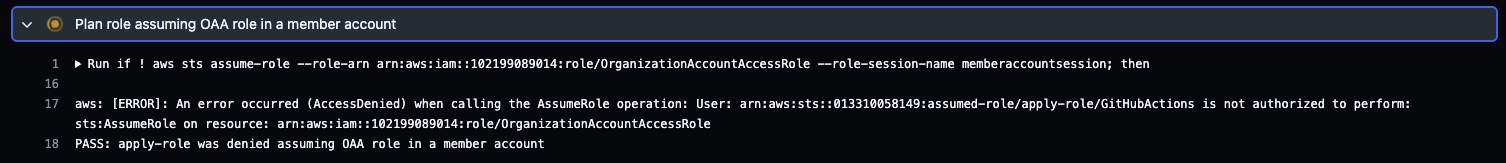
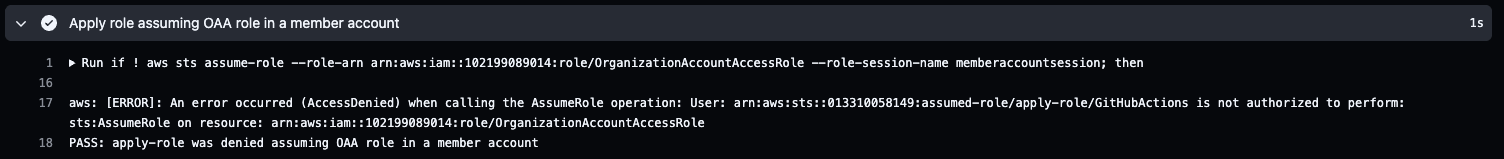
docs: phase-2.0 docs started

diff --git a/docs/adr/0002-organization-design.md b/docs/adr/0002-organization-design.md
@@ -1,0 +1,78 @@
+# ADR 0002: Organizational Unit (OU) and Account Architecture Design
+
+Date: 2026-11-08
+
+Status: Accepted
+
+## Context
+To host our workloads securely and at scale, we require a robust multi-account strategy using AWS Organizations. Managing enterprise infrastructure under a single AWS account introduces significant blast radius, chaotic IAM resource policy management, and lack of strict environment isolation.
+
+We must establish a structural blueprint that adheres to the **AWS Security Reference Architecture (SRA)** while aligning with specific operational constraints:
+
+1. **Separation of Concerns:** Security operations and log archiving must be strictly isolated to prevent internal or external tampering.
+
+2. **Account Lifecycle & Portfolio Constraints:** Because this is a reference portfolio project, we need an automated, intentional way to destroy non-production infrastructure to control costs, while demonstrating production-grade safety flags on production data.
+
+3. **Regional Governance:** To comply with data residency goals and optimize architecture complexity, we must pin our footprint down to a specific primary region.
+
+## Options Considered
+
+### Option 1: Monolithic Flat Organization
+Deploy a single organizational structure with single accounts containing mixed environments (Dev/Prod) and unified log/security monitoring setups.
+
+* *Pros:* Simple to orchestrate via Terraform; minimal multi-account cross-role configuration overhead.
+* *Cons:* Severe violation of AWS SRAl compromised developer instances can sniff production traffic or access centralized logs; high blast radius.
+
+### Option 2: AWS SRA-Aligned 3-OU Pattern with Functional Separation and Lifecycle Controls (Chosen)
+Implement a streamlined AWS SRA pattern utilizing exactly 3 OUS (`Security`, `Workloads`, `Suspended`), dedicated decoupled core accounts (`Log Arhive`, `Audit`), localized deployment home-region constraints (`ca-central-1`), and explicit account termination behaviors.
+
+* *Pros:* Absolute alignment with AWS top-tier security standards; hard boundary enforcement between security monitoring and raw data logs; strict protection against accidental cloud spend and state drift via aggressive non-production lifecycle teardown controls.
+* *Cons:* Higher complexity in organizational drift tracking; requires configuring multiple landing zone cross-account role handshakes.
+
+## Decision
+We selected **Option 2**. The organization is constructed with a highly deliberate blueprint utilizing the native **AWS IAM Identity Center (SSO)** for centralized workforce authentication and directory management, pinned explicitly to the **`ca-central-1` (Canada Central)** home region.
+
+### Implementation Specifics
+
+```
+Root
+├── 🛡 Security OU
+│    ├── Log Archive Account (Raw, immutable security logs)
+│    └── Audit Account (Active security tools: GuardDuty, Security Hub)
+├── 🏗 Workloads OU
+│    ├── Dev Account
+│    └── Prod Account
+└── 🛑 Suspended OU (Quarantine zone / Deny-All SCP incoming in Phase 2.3)
+```
+1. **Strict Decoupling of Security Accounts (`Log Archive` `Audit`):**
+
+Following the AWS SRA blueprint, the `Log Archive` and `Audit` accounts are completely split.
+
+* The **Log Archive account** acts as a strictly read-only, tamper-proof bucket store for centralized organization-wide trails (CloudTrail, VPC Flow Logs).
+* The **Audit account** hosts our security orchestration engine (Amazon GuardDuty, AWS Security Hub).
+* **The Guardrail:** If an attacker gets into the Audit account, they are cryptographically and structually blocked from deleting or altering the logs stored inside the Log Archive account.
+
+
+2. **The 3-OU Layout & Account Lifecycle Safety:**
+
+* **Security OU:** Houses our core protection layers (`Log Archive` and `Audit`).
+* **Workloads OU:** Segregates our application (`Dev` and `Prod`).
+* **Suspended OU:** Dedicated as a dynamic quarantine zone. In Phase 2.3, a structural `Deny-All` Service Control Policy (SCP) will be attached here to lock down compromised or decommissioned accounts instantly.
+
+3. **Intentional Account Lifecylce Flag (`close_on_termination`):**
+
+* To fit the realistic needs of a cloud portfolio architecture, the **`Dev` and management infrastructure accounts have `close_on_termination = true`** toggled in their Terraform configurations. This allows the automated CI/CD pipeline to rapidly spin down and securely clean up sandbox spaces to elimiated tail costs.
+* Conversely, the **`Prod` workload account has `close_on_termination = false`** explicitly enforced. This simulates production safety guidelines, ensuring that a human error or a bug in a pipeline script can never accidently drop our primary production database or infrastructure.
+
+## Trade-offs & Consequences
+
+### Positive (Benefits)
+
+* **AWS SRA Compliance:** The structure mirrors modern cloud-native security frameworks, which immediately signals enterprise-level competence to external auditors or architectural reviewers.
+* **Blast Radius Immunization:** A security breach inside the `Dev` account cannot cross the boundary into `Prod`, nor can it compromise the integrity of security monitoring tools or historical log streams.
+* **Cost and Safety Balance:** Using `close_on_termination` dynamically across environments showcases a deep understanding of operational realities-cost-optimized for portfolio lifecylces in non-prod, but heavily armored against accidental destruction in production.
+
+### Negative (The "Taxes" Paid)
+
+* **Cross-Account Logging Multipliers:** Routing logs from `Dev`, `Prod`, and `Audit` into a single central `Log Archive` requires detailed cross-account S3 bucket policies and strict KMS key-sharing policies.
+* **Regional Strictness:** Constraining operations strictly to `ca-central-1` requires building additional guardrails (via future SCPs) to actively deny resource provisioning in all other global regions, introducing minimal management maintenance.

diff --git a/docs/adr/0001-delivery-and-identity-architecture.md b/docs/adr/0001-delivery-and-identity-architecture.md
@@ -1,0 +1,51 @@
+# ADR 0001: Deployment and Identity Architecture for AWS Landing Zone
+
+Date: 2026-11-08
+
+Status: Accepted
+
+## Context
+We are establishing an automated, multi-account AWS Landing Zone managed via Terraform and orchestrated by GitHub Actions. The core requirement is to implement a resilient, automated GitOps framework that adheres to absolute zero-trust principles. To achieve this, we must solve several critical architectural challenges:
+
+1. **Long-Live Credentials:** We must completely eliminate static, high-privilege AWS Access Keys inside our CI/CD platform to protect against credential leaks.
+
+2. **Privilege Escalation:** Automated pipelines executing code changes in member accounts could accidently or maliciously modify their own IAM rights to bypass organizational guardrails.
+
+3. **Bootstrap Chicken-and-Egg Dilemma:** Automated cross-account deployment roles cannot exist until they are created, requiring a secure, audited mechanism to instantiate the landing zone's foundation.
+
+4. **State Exfiltration and Tampering:** A unified Terraform state file or shared encryption key allows a compromised low-tier environment (e.g., Dev) to read or tamper with high-tier environment configurations (e.g., Prod).
+
+## Options Considered
+
+### Option 1: Monolithic Deployment Identity with Universal State Acccess
+Utilize a single, highly privileged IAM role assumed via OIDC across all branches, storing all account state files in a single S3 bucket sharing a master KSM key.
+
+* *Pros:* Low operational complexity; highly straightforward GitHub Actions configurations.
+* *Cons:* Severe blast-radius risk. Any feature branch or unreviewed pull request could alter production state, escalate its own privileges, or mutate real-world infrastructure.
+
+### Option 2: Split OIDC Identities, Managed Bootstrapping, and Cryptographically Isolated State (Chosen)
+Implement dual-role OIDC federation (Read-Only Plan / Scoped Apply), a multi-phase bootstrap sequence leveraging temporary OrganizationAccountAccessRole (OAAR) privileges, explicit AWS Permissions Boundaries appended to all generated roles, and distinct state file boundaries.
+
+* *Pros:* Enforces absolute least privilege; completely prevents escalation; strictly limits blast radius across environments; cryptographically seals state data per environment.
+* *Cons:* Significant engineering overhead; complex multi-stage pipeline orchestration; requires strict state management and precise KMS key policy maintenance.
+
+## Decision
+We selected **Option 2**. The security mandate of a resilient multi-account landing zone necessitates a robust governance engine that actively prevents privilege escalation, isolates environments at the state layer, and permanently decommissions human/root access post-bootstrap.
+
+## Implementation Specifics
+* **Dual-Role OIDC Trust:** GitHub Actions authenticates via OpenID Connect. Feature branch pushes assume a read-only `plan-role` role. Merges to the `main` branch require a GitHub Production Environment manual approval gate escalating to the `apply-role` role. 
+* **The Boostrap Sequence Exception:** Initial infrastructure is stood up by a human administrator leveraging temporary AWS IAM Identity Center (SSO) Administrator privileges. The Management Account's `apply-role` pipeline uses this access to assume the native `OrganizationAccountAccessRole` (OAAR) inside new member accounts.
+* **The "Born-With-Boundary" Pattern:** The management pipeline use its OAAR access to construct localized `terraform-plan` and `terraform-deploy` roles inside the member accounts. Crucially, every role created is appended with a `terraform-boundary` **Permissions Boundary**. This boundary strictly dictates that the deployment engine can never delete core security controls, alter its own boundary, or escalate its permissions.
+* **Dismantling Bootstrapping Access:** Once member account baselines and roles are fully instantiated, the global OAAR trust and human SSO admin access are **permanently removed**. Day-2 operations rely exclusively on the Management Account's `apply-role` role assuming the newly minted, boundary-restricted member roles.
+* **State Isolation:** Terraform states are segregated into specific paths, org, bootstrap, and members
+
+## Trade-offs & Consequences
+* **Zero Static Credentials:** Eliminiating long-lived access keys neutralizes the single greatest vector for cloud repository breaches.
+* **Immunized Against Privilege Escalation:** Because of the `terraform-boundary` pattern, even a rogue or compromised Terraform script running in the pipeline cannot alter IAM boundaries to give itself global admin access.
+* **Strict Blast Radius Reduction:** Compromising a feature branch or a Dev account provides zero visibility or leverage into the Prod environment or the core Management state files.
+* **Audit-Ready Posture:** Separating roles by action (`plan` vs `apply`) maps perfectly to the standard corporate compliance requirements (e.g., SOC2 Type II, ISO 27001) regarding separation of duties.
+
+## Negative (The "Taxes" Paid)
+* **High CI/CD Complexity:** GitHub workflows must be delicately configured to split jobs across environments, managed discrete OIDC tokens, and elegantly handle human approval interruptions.
+* **Bootstrapping Maintenance:** Adding a new account requires executing a specific, highly coordinated phased pipeline before it can transition smoothly into standard Day-2 GitOps automation.
+* **Permissions Boundary Overhead:** Any future architecture expansion requiring the deployment pipeline to provision new types of IAM roles means the underlying `terraform-boundary` policy must be meticulously updated and maintained, slightly slowing down baseline expansions.

diff --git a/docs/evidence/phase-2.0/README.md b/docs/evidence/phase-2.0/README.md
@@ -1,0 +1,61 @@
+# Phase 2.0: Advanced GitOps Security: Multi-role Federation & Privilege Escalation Guardrails
+
+The CI/CD engine splits execution into **two distinct workflows** with isolated IAM identitis, completely decoupling the execution of `terraform plan` from `terraform apply`. This enforces a zero-trust model where a read-only process cannot modify state or infrastructure.
+
+```
+Feature Branch (Push) ──> 🛡 Plan Workflow ──> Assumes Read-Only Roles (S3 State + AWS Orgs/Members)
+                                │
+Pull Request (Merge)  ──> 🛑 Prod Gate ─────> Requires Manual Approval & Env Guardrail
+                                │
+Main Branch (Approved) ──> 🚀 Apply Workflow ─> Assumes Management Apply Role 
+                                                      │
+                                                      └──> Cross-Account Assume (Member Member Roles)
+                                                           [Enforced by Permissions Boundaries]
+
+```
+## What's implemented:
+
+* [X] Built 3 Organizational Units (Security, Workloads, and Suspended), 4 accounts (Audit, Log Archive, Dev and Prod) using Terraform modular configurations automated provisioning via GitHub Actions
+
+![Org Structure](./org-structure.txt)
+
+[PR #30] (https://github.com/mananqayas/secure-aws-landing-zone/pull/30)
+
+* [X] Provisioned AWS IAM Identity Center (SSO) for human access using short-lived credentails
+
+* [X] Authored least privileges terraform plan and apply roles inside management account using bootstrap terraform configurations via SSO cli access
+
+All infrastructure after bootstrap is provisioned via CI (GitHub Actions + OIDC trust with AWS), local applies only as documented operator exceptions (state-import recovery, boundary targeted unlock, deploy-role -replace).
+
+PRs for this setup (#30 to #45)
+
+* [X] Implemented terraform state locking using latest implementation guidelines, adding `use_lockfile = true`
+
+![S3 state locking](./state-lock-planted-test.png)
+
+* [X] Permissions boundary policies are created for roles in management and member accounts following principle of least privilege to prevent privilege escalation
+
+![Boundary celing simulation](./boundary-celing-simulation.png)
+
+* [X] Every member account is baselined using a dedicated Terraform module named ([account-baseline](../../../modules/account-baseline/)) and graduate them once baselined
+
+Subsequent plan and apply inside member account are done via member `terraform plan` and `terraform apply` roles.
+
+PRS #44 and #45
+
+* [X] No standing access for `OrganizationAccountAccessRole` inside member accounts for `plan` and `apply` CI roles in management account after graduation
+
+![Negative tests for plan CI](./plan-role-negative-test-oaa-retirement.png)
+
+![Negative tests for apply CI](./apply-role-negative-test-oaa-retirement.png)
+
+* [X] Key decisions for Org Structure, Multi-account, and short-lived credentials are recorded in  [ADR-0001](../../adr/0001-delivery-and-identity-architecture.md) and [ADR-0002](../../adr/0002-organization-design.md)
+
+## Compliance and Governance Control Mapping
+
+| Implementation Practice | NIST CSF Mapping | SOC 2 TSC Mapping | Architectural Objective |
+| ----------------------- | ---------------- | ----------------- | ----------------------- |
+| **OIDC Federation** (Zero Static Keys) | **PR.AC-1** (Identity Management & Authentication) | **CC6.1** (Access Control / Identity Verification) | Eliminated credential exfiltration risk via short-lived, cryptographically verified tokens. |
+| **Permissions Boundaries** (Least-Privilege Ceiling) | **PR.AC-4** (Access Enforcement / Least Privilege) | CC6.3 (Privilege Modification Enforcement) | Sets an immutable security ceiling that prevents automated deployment roles from escalating their own rights. |
+| **Isolated Remote State** (Encrypted, Locked, Versioned S3) | **PR.DS-1** (Data-at-Rest Protection) | **CC6.1 / CC6.3** (Data Boundary Protection) | Guarantees state file integrity, prevents state corruption / concurrency issues, and blocks cross-tier decryption. |
+| **Approval-Gated Applies** (Protected Main Branch & Env Gates) | **PR.IP-1** (Baseline Change Management) | **CC8.1** (Change Operational Execution Controls) | Ensures no mutations can occur in production without mandatory peer review and explicit structural sign-off. |
